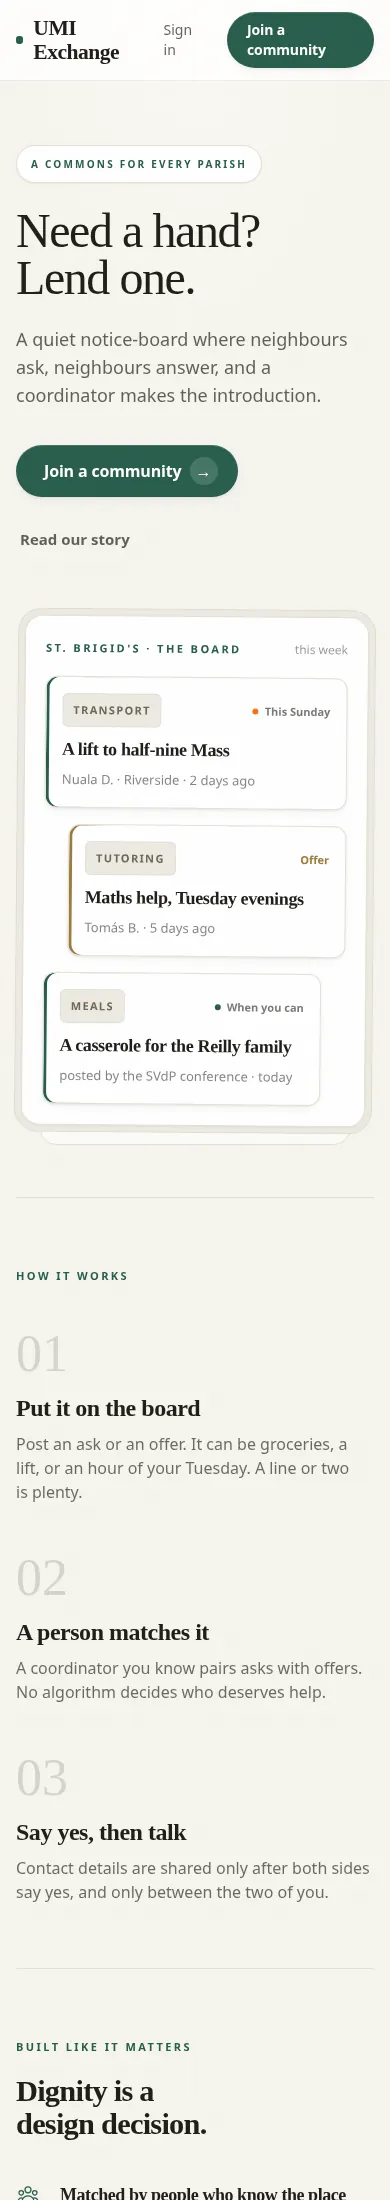
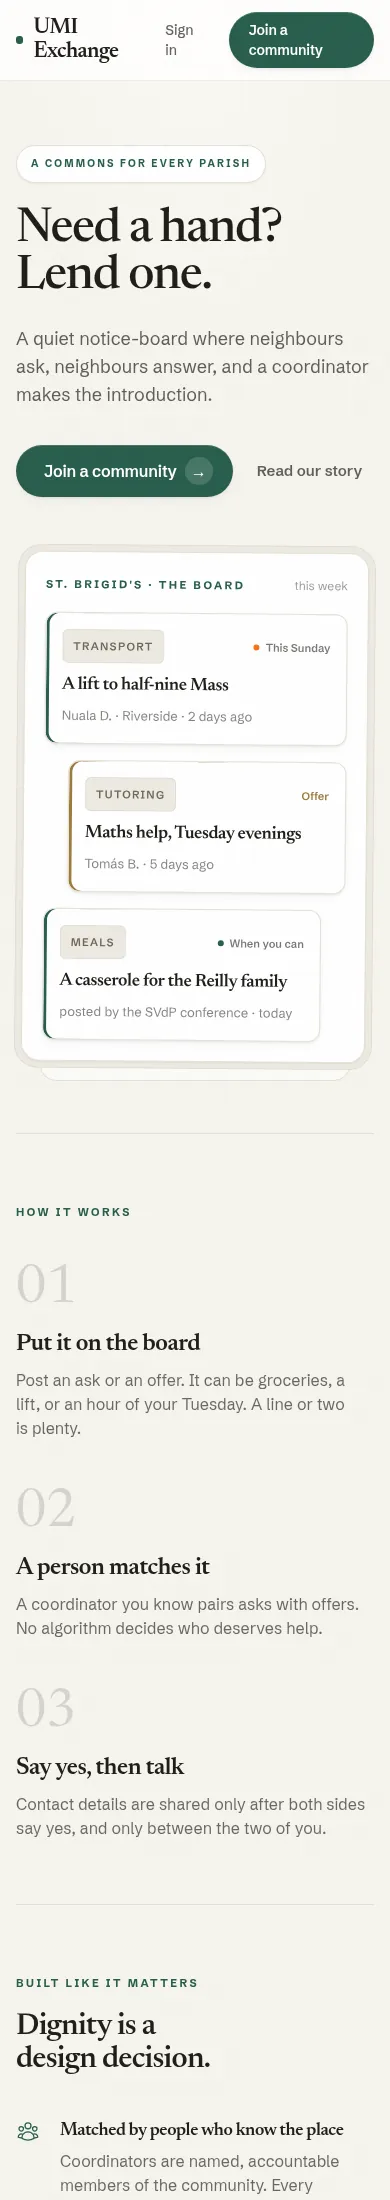
docs(demo): gallery recaptured under DEBUG=0, the demo's real conditions

diff --git a/STATE.md b/STATE.md
@@ -90,6 +90,7 @@
 Do not assume/reintroduce: Stripe billing, Twilio SMS, Chart.js dashboards, blog, scheduled email digests (only an `email_digest` config key), account-deletion flow, **in-app chat** (deliberate — see Protocol section), REST/DRF API (federation speaks its own signed endpoints). (Service worker exists **only** for casework offline capture — not a site-wide PWA.)
 
 ## Repo state / open items
+- **In-flight (`fix/consent-voice`, 2026-07-14):** triage items 1–14 verified all shipped in `fc7f7e5`; the two remainders done — consent FILLED state speaks parish (scope tokens → words, Stop sharing, honest footnote) and the gallery re-captured under real `DEBUG=0` demo conditions (recipe verified live: warm 404, whitenoise statics). Gate pending, then his gallery key.
 - **Demo-polish MERGED `fc7f7e5` (his key 2026-07-14):** the Father Mac pass — `seed_demo_parish` (fictional St. Brigid's, DEBUG-only, 3 tests), 38-screen triage (`docs/demo-triage-2026-07-14.md`), app-wide spoken copy (72 em-dash rewrites + sentence-case sweep), swatch defaults, warm 403 + human 500 + DEBUG env toggle, `docs/demo-walkthrough.md` (8-screen golden path). Gate was PASS 858.
 - **Spoken-flow copy MERGED `ce56d1b` (his standing key 2026-07-14):** mission copy passes the say-it-aloud test — contractions back, comma-chains broken into spoken sentences (impeccable clarify). Say-aloud rule = master formatting rule in brain voice.md. Gate was PASS 855. Branch deleted.
 - **CarePortal-form copy MERGED `f6ac2b3` (his key 2026-07-14):** mission-page body rewritten as flowing sentences from studying careportal.org directly; 37 em-dash constructions gone (testimony quote keeps its one, never edited); form rules recorded in brain `identity/voice.md` §Grammar. Gate was PASS 855. Branch deleted on his key.

diff --git a/docs/demo-walkthrough.md b/docs/demo-walkthrough.md
@@ -72,5 +72,6 @@ Both said yes. The page settles, warms, and shares contact between the two of th
 ## Accessibility note
 
 Focus rings, reduced-motion, and AA contrast are built into the design system (see DESIGN.md's
-verified contrast table). An automated axe pass wasn't run for this gallery — the toolchain
-isn't installed offline; screens were checked by eye against the token contrast table.
+verified contrast table). An automated axe pass wasn't run for this gallery (toolchain not installed offline); screens
+were checked by eye against the token contrast table. This gallery was captured with
+`DEBUG=0`, the same conditions as the demo recipe above.
